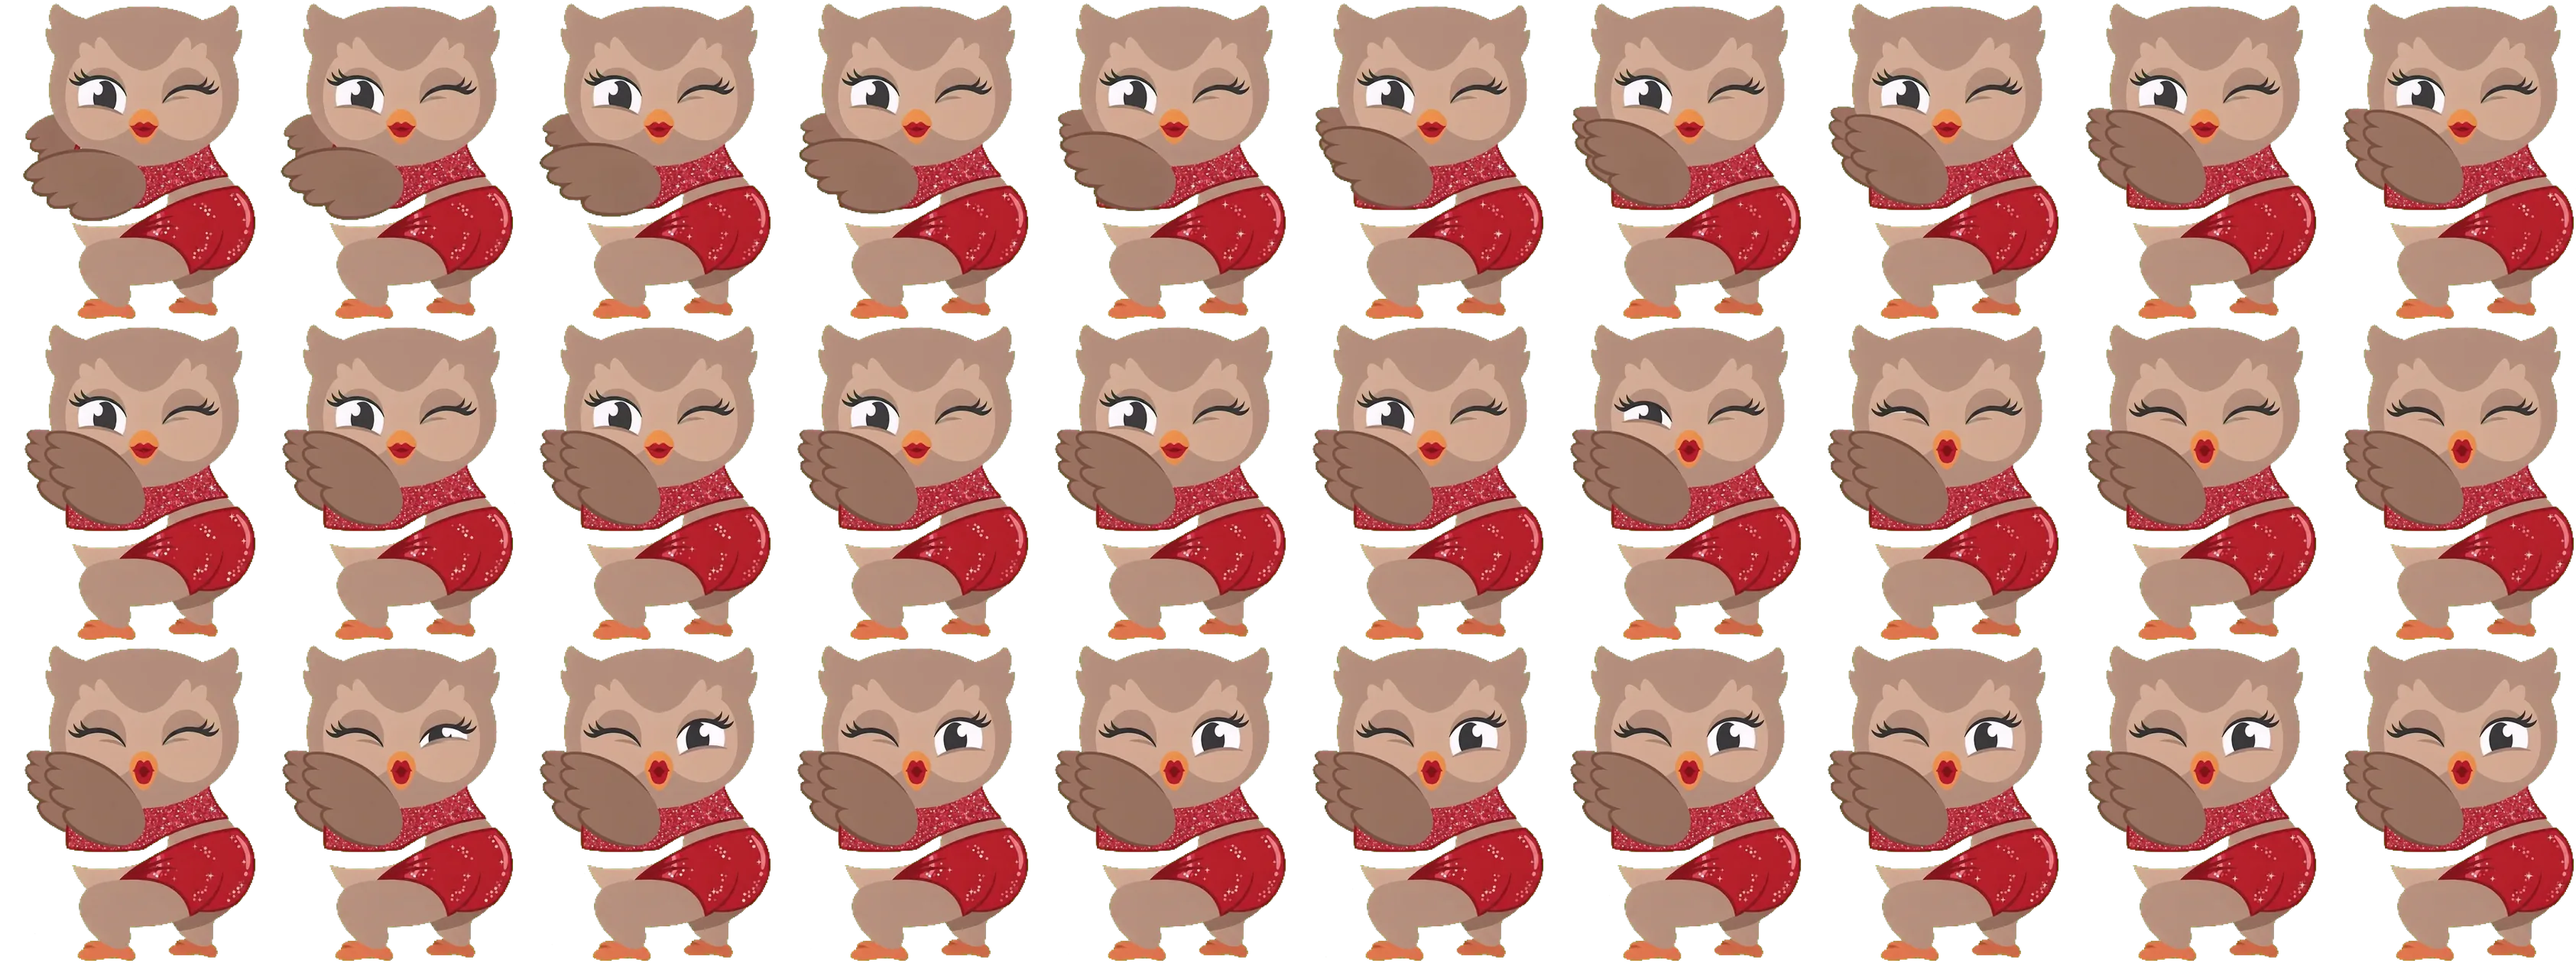
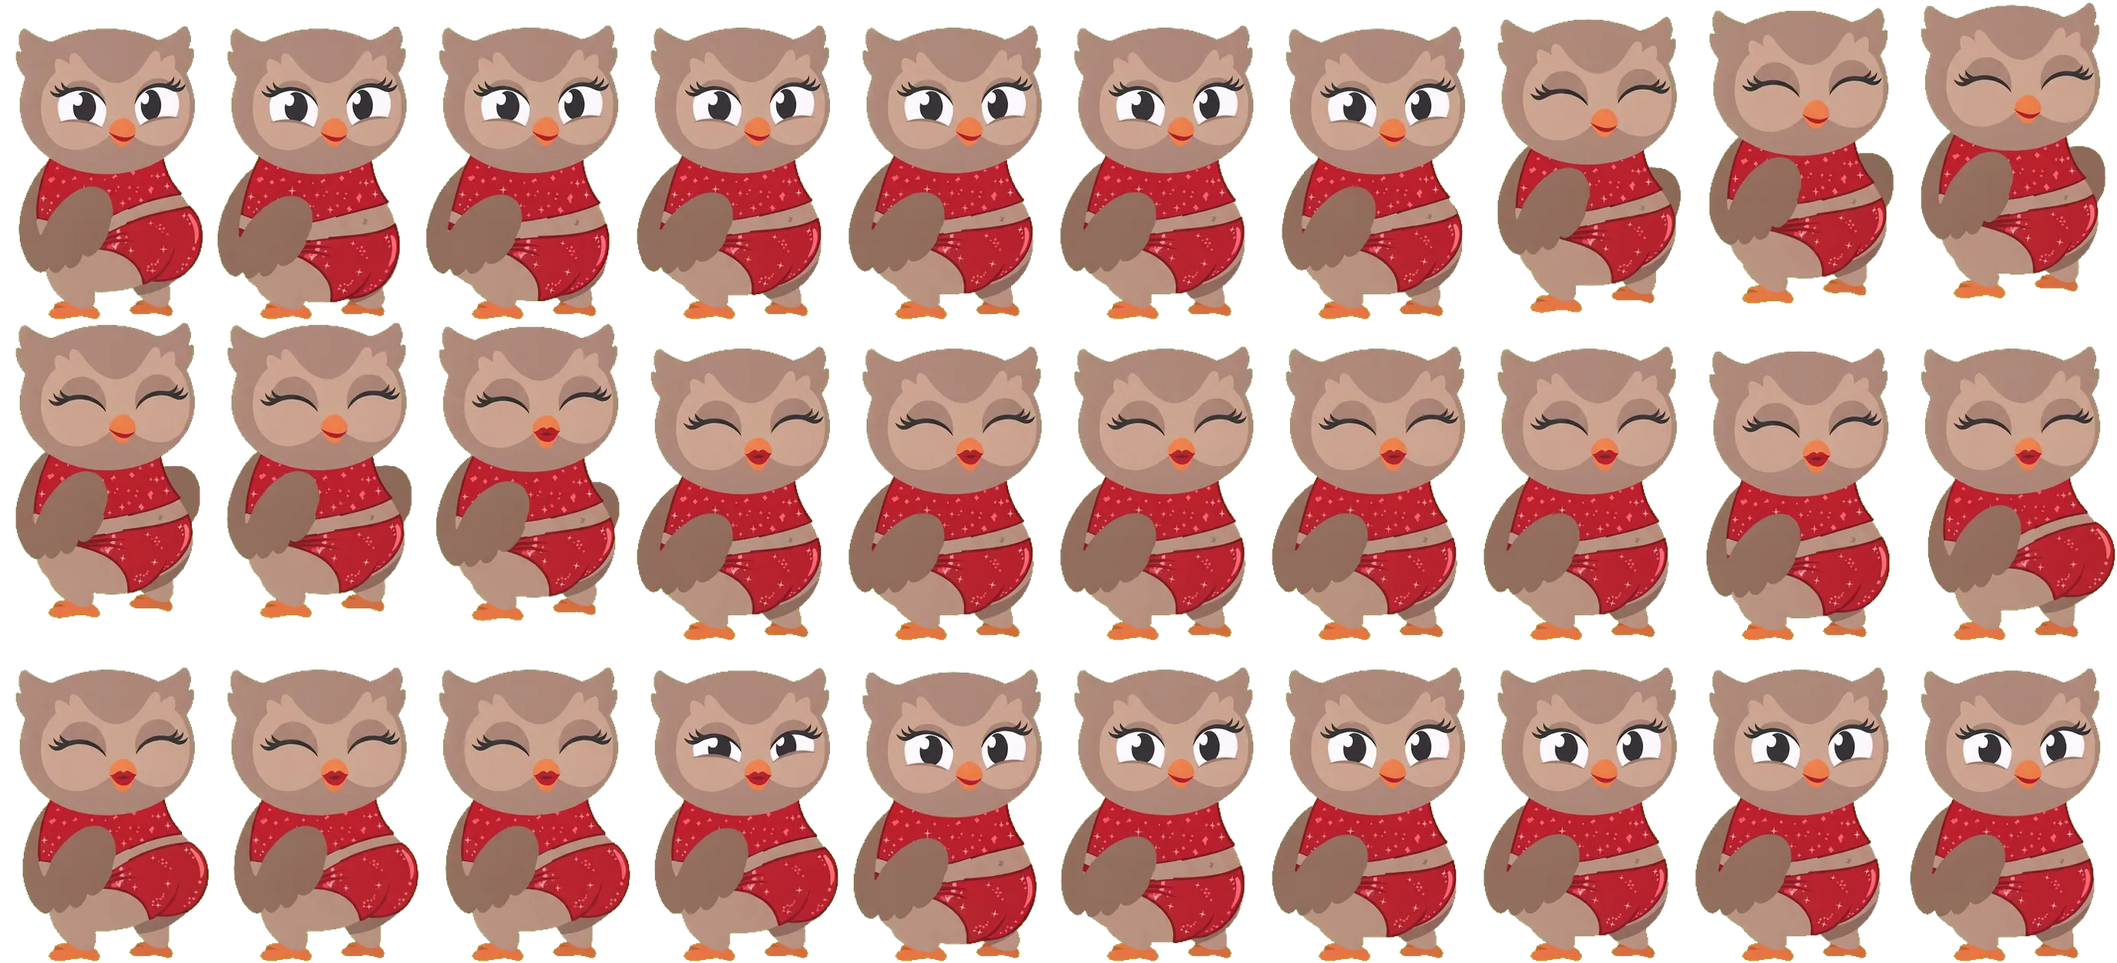
Skins : animations au style de l'accueil pour Boss Lady, Loco, Sexy Nana, Alcoolique et Noël
Claude-Session: https://claude.ai/code/session_01Mhe2sXxeYRTuK8YMvgnzWy

diff --git a/app/js/lexou.js b/app/js/lexou.js
@@ -18,12 +18,12 @@ export const ANIMATIONS = {
   'six-sept': { l: 469, h: 420, images: 120, boucle: true },
   performative: { l: 366, h: 420, images: 90, boucle: true },
   survet: { l: 368, h: 420, images: 90, boucle: true },
-  bosslady: { l: 337, h: 420, images: 90, boucle: true },
-  loco: { l: 383, h: 420, images: 90, boucle: true },
-  nana: { l: 441, h: 420, images: 90, boucle: true },
-  alcoolique: { l: 371, h: 420, images: 90, boucle: true },
+  bosslady: { l: 277, h: 420, images: 90, boucle: true },
+  loco: { l: 318, h: 420, images: 90, boucle: true },
+  nana: { l: 362, h: 420, images: 90, boucle: true },
+  alcoolique: { l: 397, h: 420, images: 90, boucle: true },
   tung: { l: 398, h: 420, images: 90, boucle: true },
-  noel: { l: 346, h: 420, images: 90, boucle: true },
+  noel: { l: 270, h: 420, images: 30, boucle: true },
 };
 
 // Charge et décode toutes les planches d'une animation ; rejette si l'une manque (hors ligne).
